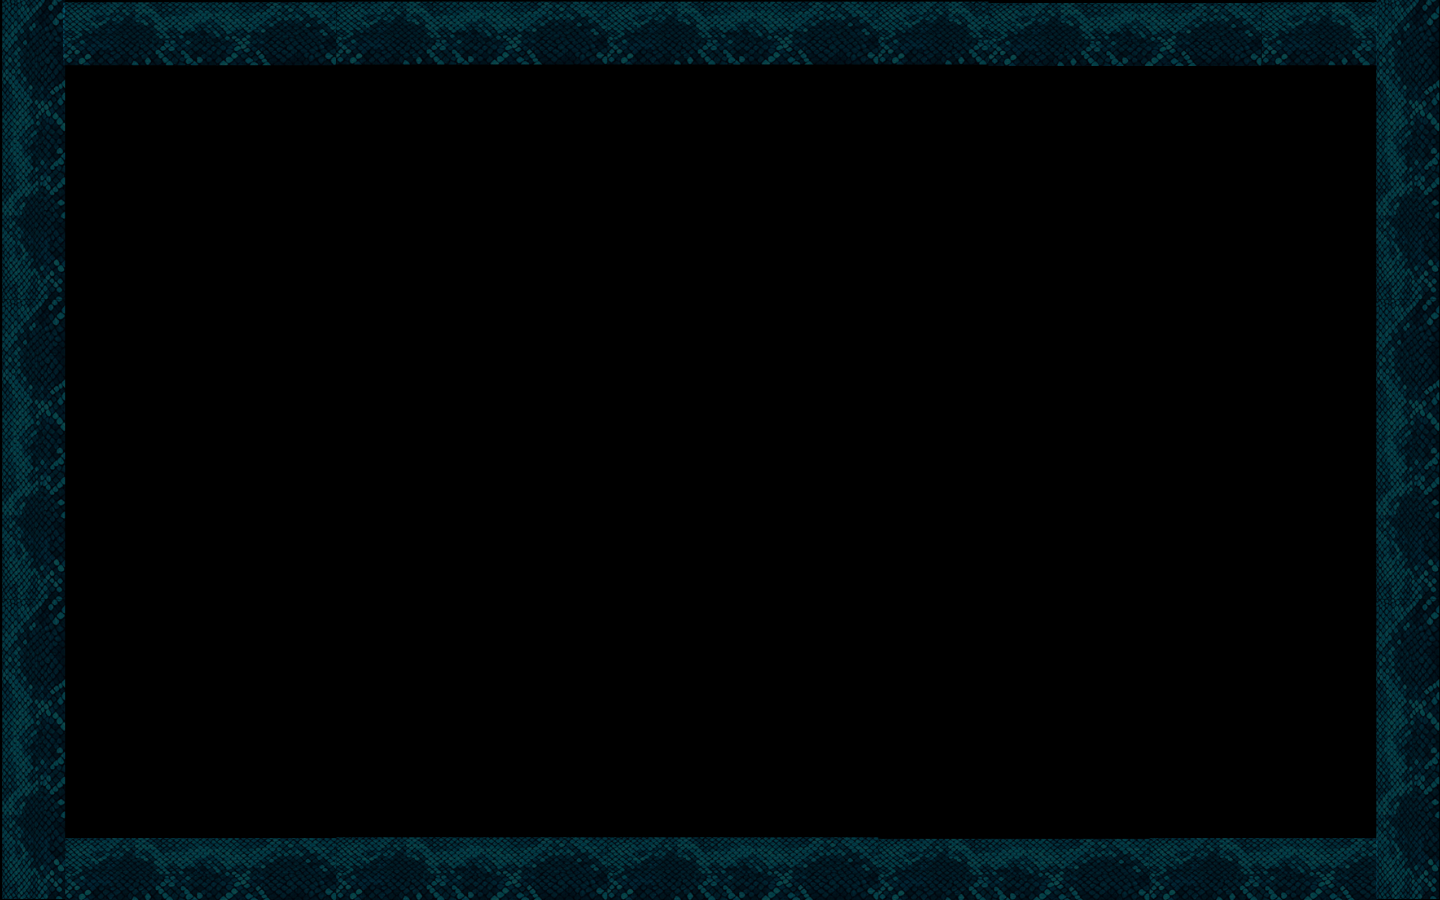
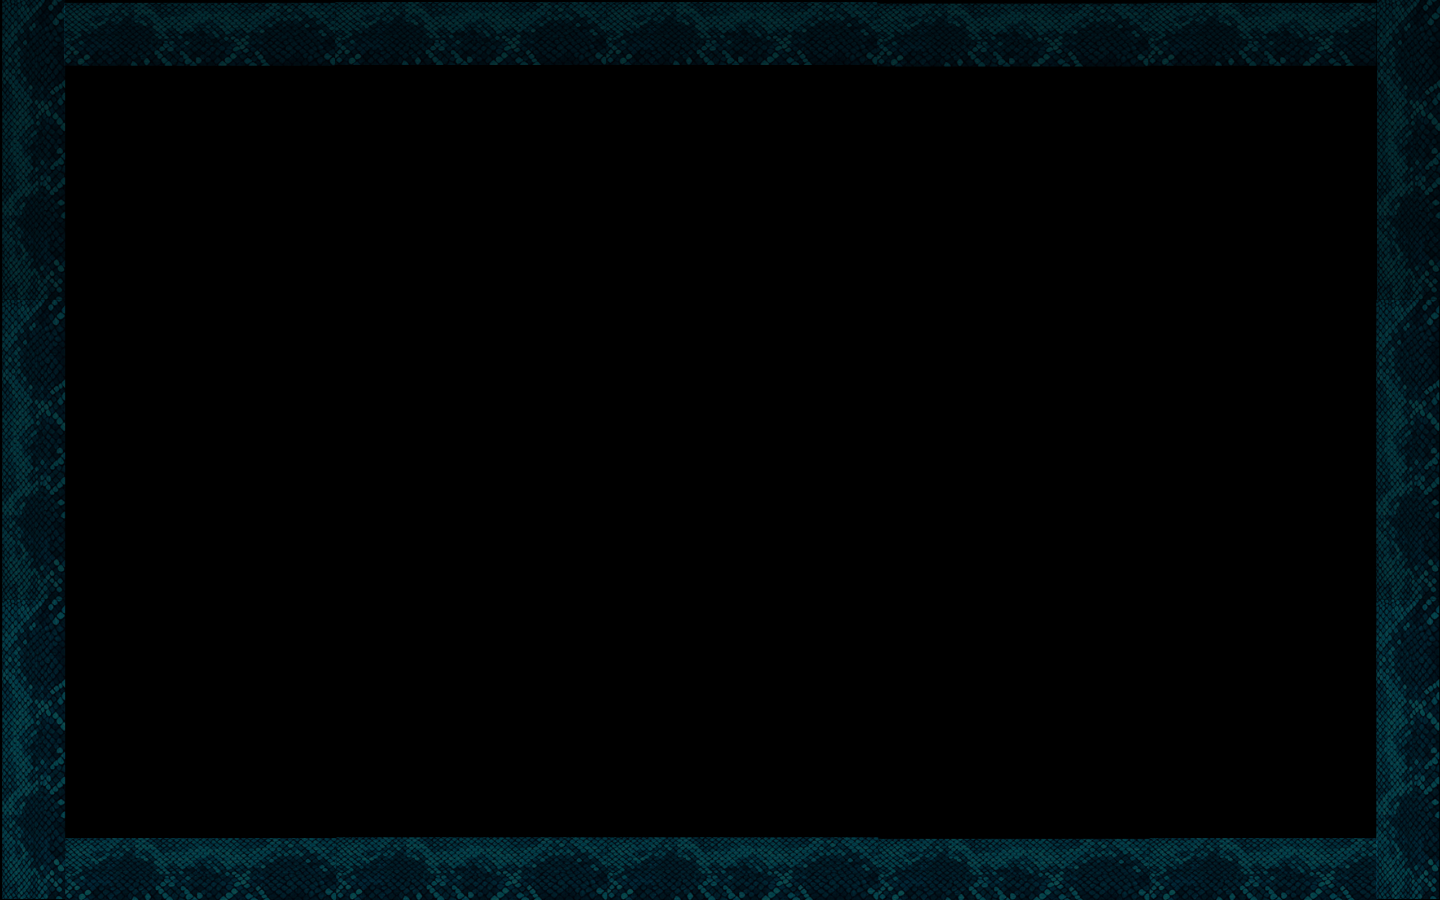
puntuacion

Changed region(s): [[0.0312, 0.0, 1.0, 0.3422]]

diff --git a/core/src/main/java/pantallas/PantallaJuego.java b/core/src/main/java/pantallas/PantallaJuego.java
@@ -35,6 +35,7 @@ public class PantallaJuego implements Screen {
 
 	// DISEÑO Y CONFIGURACION
 	private Imagen fondo;
+	private Imagen manzanaImagen; 
 	private Texto textoPuntuacion; 
 	private int tamanioElementos = 30;
 	private float posElementosX = 0, posElementosY = 0;
@@ -46,16 +47,12 @@ public class PantallaJuego implements Screen {
 
 		// INICIALIZACION
 		fondo = new Imagen(Recursos.FONDO_JUEGO);
+		manzanaImagen = new Imagen (Recursos.MANZANA);
+		manzanaImagen.setParametros(100, 855, tamanioElementos, tamanioElementos);
 		textoPuntuacion = new Texto(Recursos.FUENTE, 30, Color.WHITE, Color.BLACK, -4, 4, true);
 		grilla = new Grilla(tamanioElementos);
-
-		int celdasCentroX = (grilla.getAnchoJuego() / tamanioElementos) / 2;
-		int celdasCentroY = (grilla.getAltoJuego() / tamanioElementos) / 2;
-
-		// Posición inicial en píxeles (centro del área jugable)
-		posElementosX = grilla.getMargen() + (celdasCentroX * tamanioElementos);
-		posElementosY = grilla.getMargen() + (celdasCentroY * tamanioElementos);
-
+		
+		posicionInicial();
 		serpiente = new Serpiente(posElementosX, posElementosY, tamanioElementos, tamanioElementos);
 		manzana = new Manzana(posElementosX + (tamanioElementos * 4), posElementosY, tamanioElementos,tamanioElementos);
 		random = new Random();
@@ -66,10 +63,10 @@ public class PantallaJuego implements Screen {
 	@Override
 	public void render(float delta) {
 		Render.limpiarPantalla(1, 1, 1);
-		procesarTransparencia();
 		Render.batch.begin();
 		fondo.dibujar();
 		grilla.dibujarFondoGrilla();
+		manzanaImagen.dibujar();
 		Render.batch.end();
 
 		Render.shaper.begin(ShapeType.Line);
@@ -89,20 +86,23 @@ public class PantallaJuego implements Screen {
 		} else {
 			serpiente.dibujar();
 		}
+		
 		manzana.dibujar();
 		Render.shaper.end();
 		
+		System.out.println(String.valueOf(puntuacion));
 		Render.batch.begin();
-		textoPuntuacion.dibujarTexto(String.valueOf(puntuacion), 500, 500);
+		textoPuntuacion.dibujarTexto(String.valueOf(puntuacion), 160, 890);
 		Render.batch.end();
 	}
 	
-	private void procesarTransparencia() {
-		a+= 0.004f;
-		if(a > 1) {		
-			a = 1; 
-		}
-		fondo.setTransparencia(a);
+	private void posicionInicial(){
+		int celdasCentroX = (grilla.getAnchoJuego() / tamanioElementos) / 2;
+		int celdasCentroY = (grilla.getAltoJuego() / tamanioElementos) / 2;
+
+		// Posición inicial en píxeles (centro del área jugable)
+		posElementosX = grilla.getMargen() + (celdasCentroX * tamanioElementos);
+		posElementosY = grilla.getMargen() + (celdasCentroY * tamanioElementos);
 	}
 	
 	private void procesarEntradas(float delta) {
